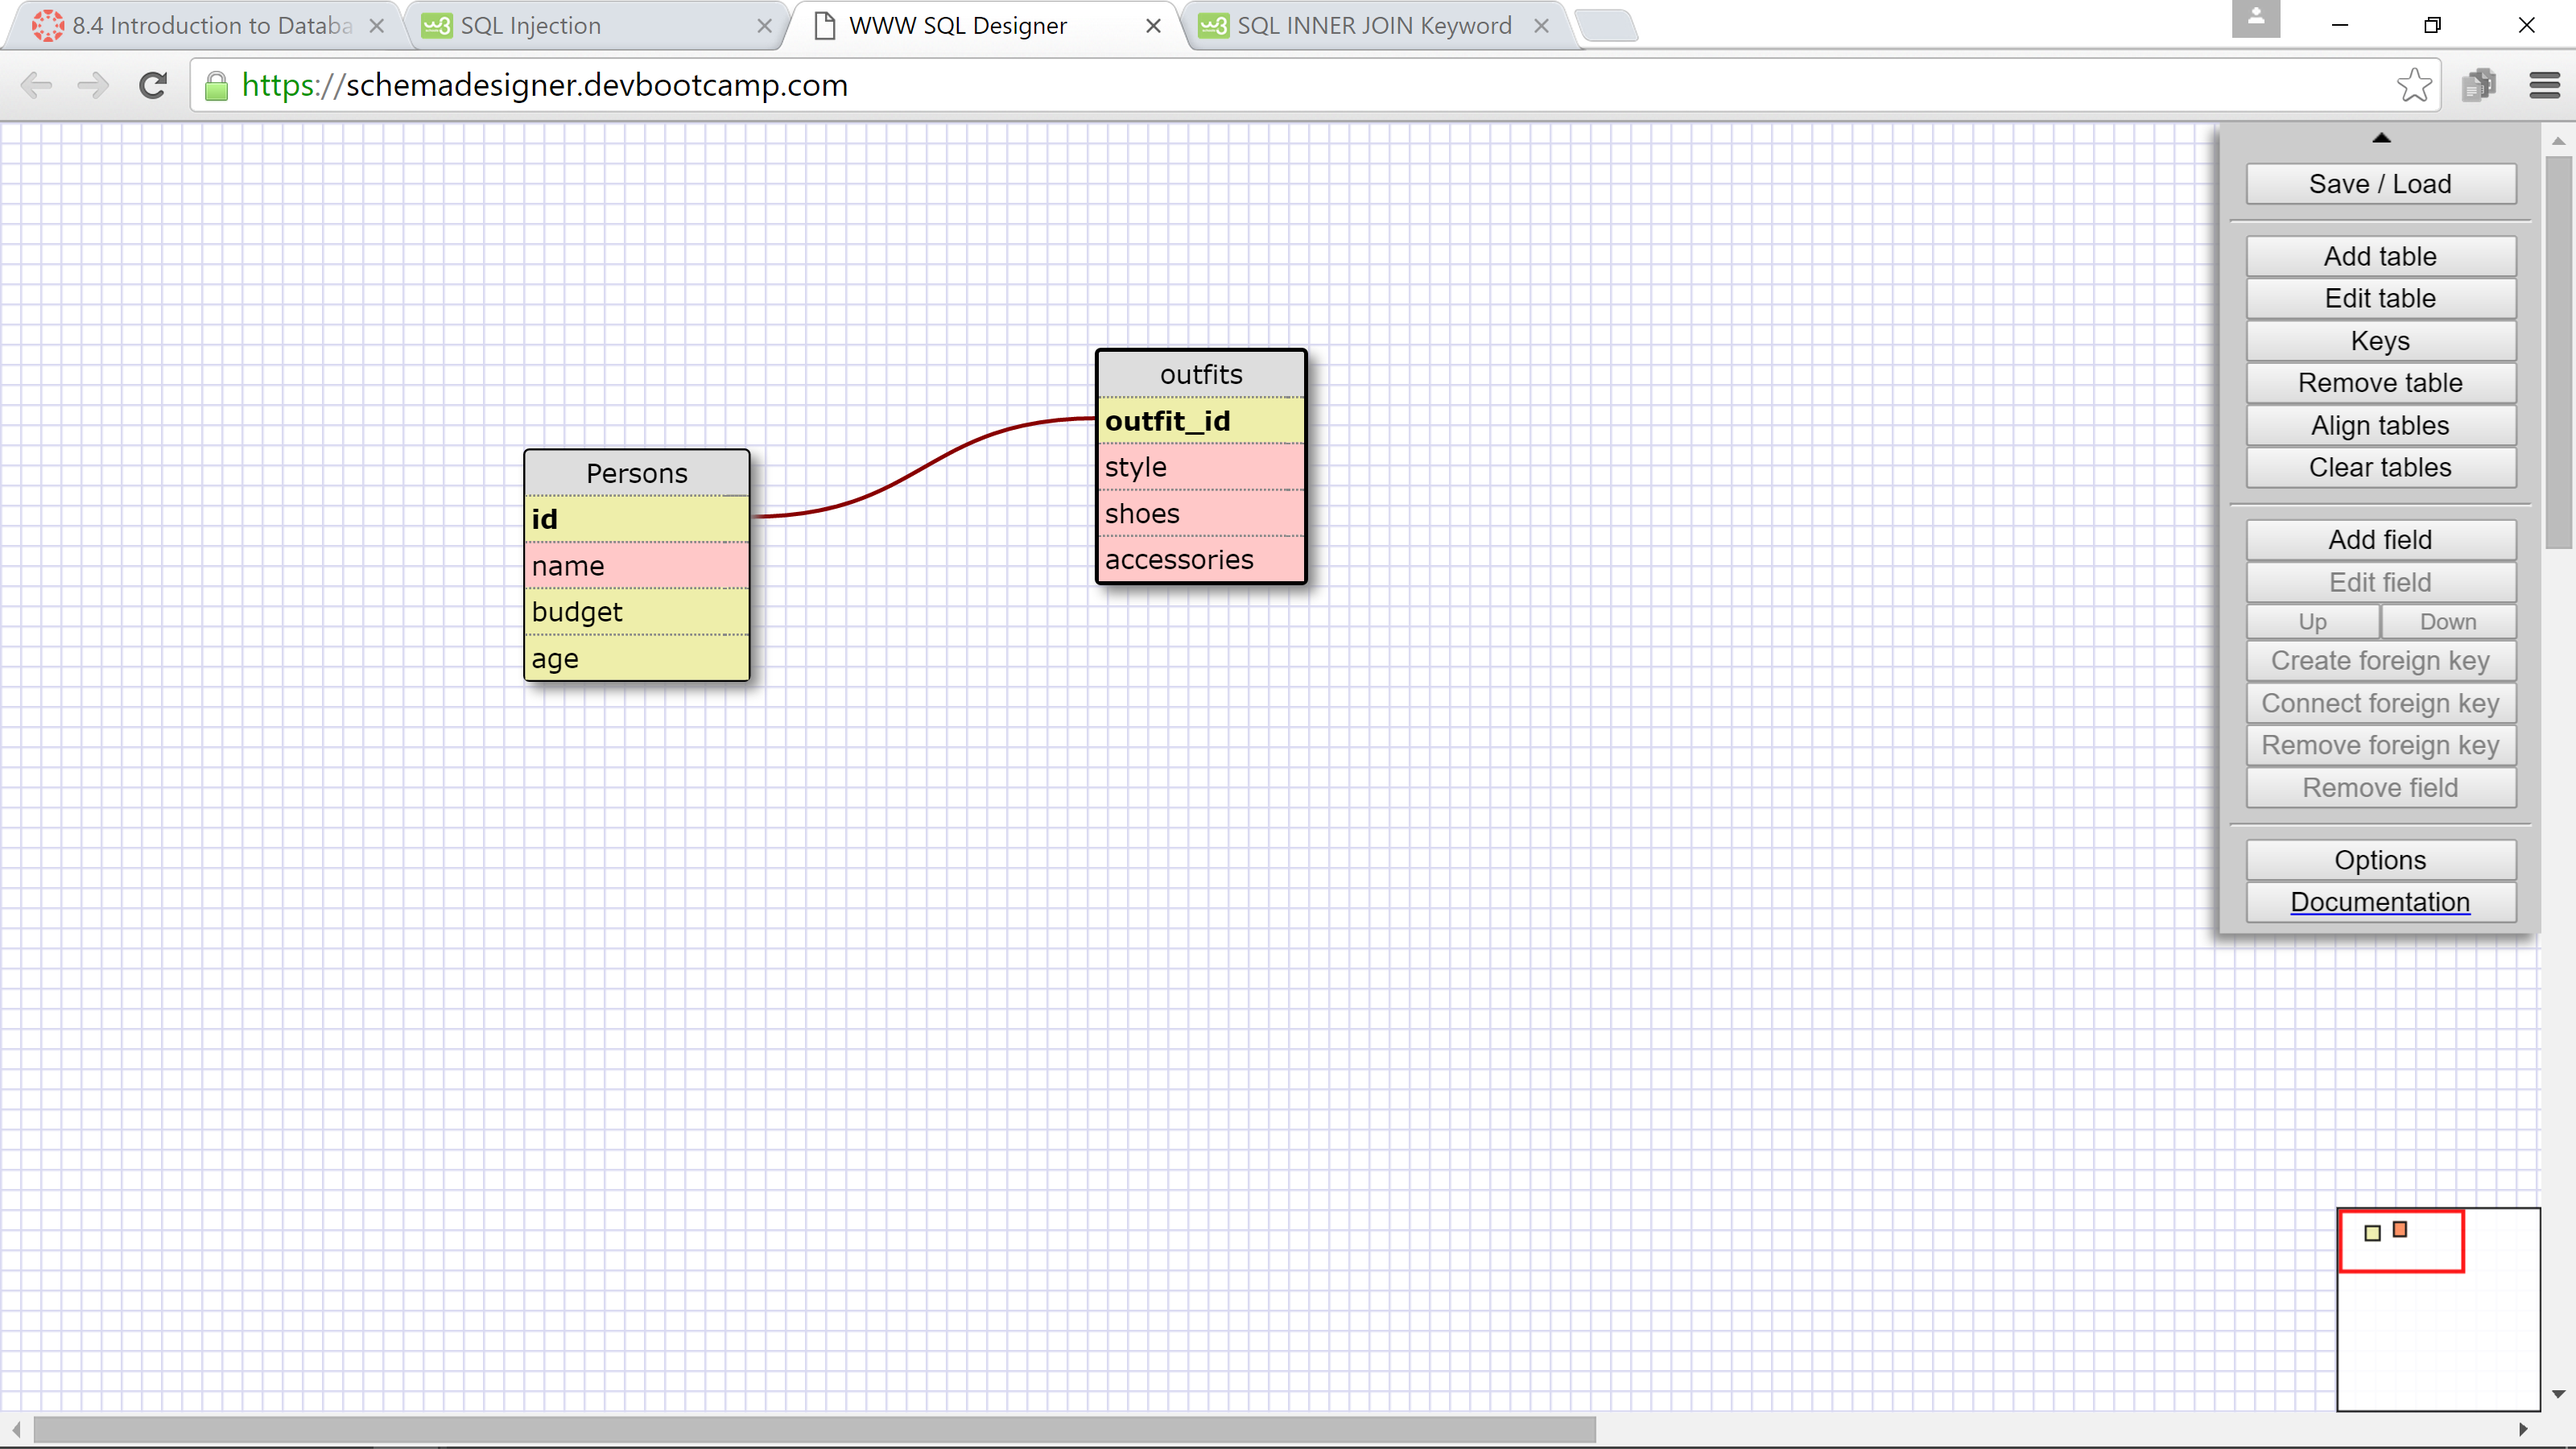
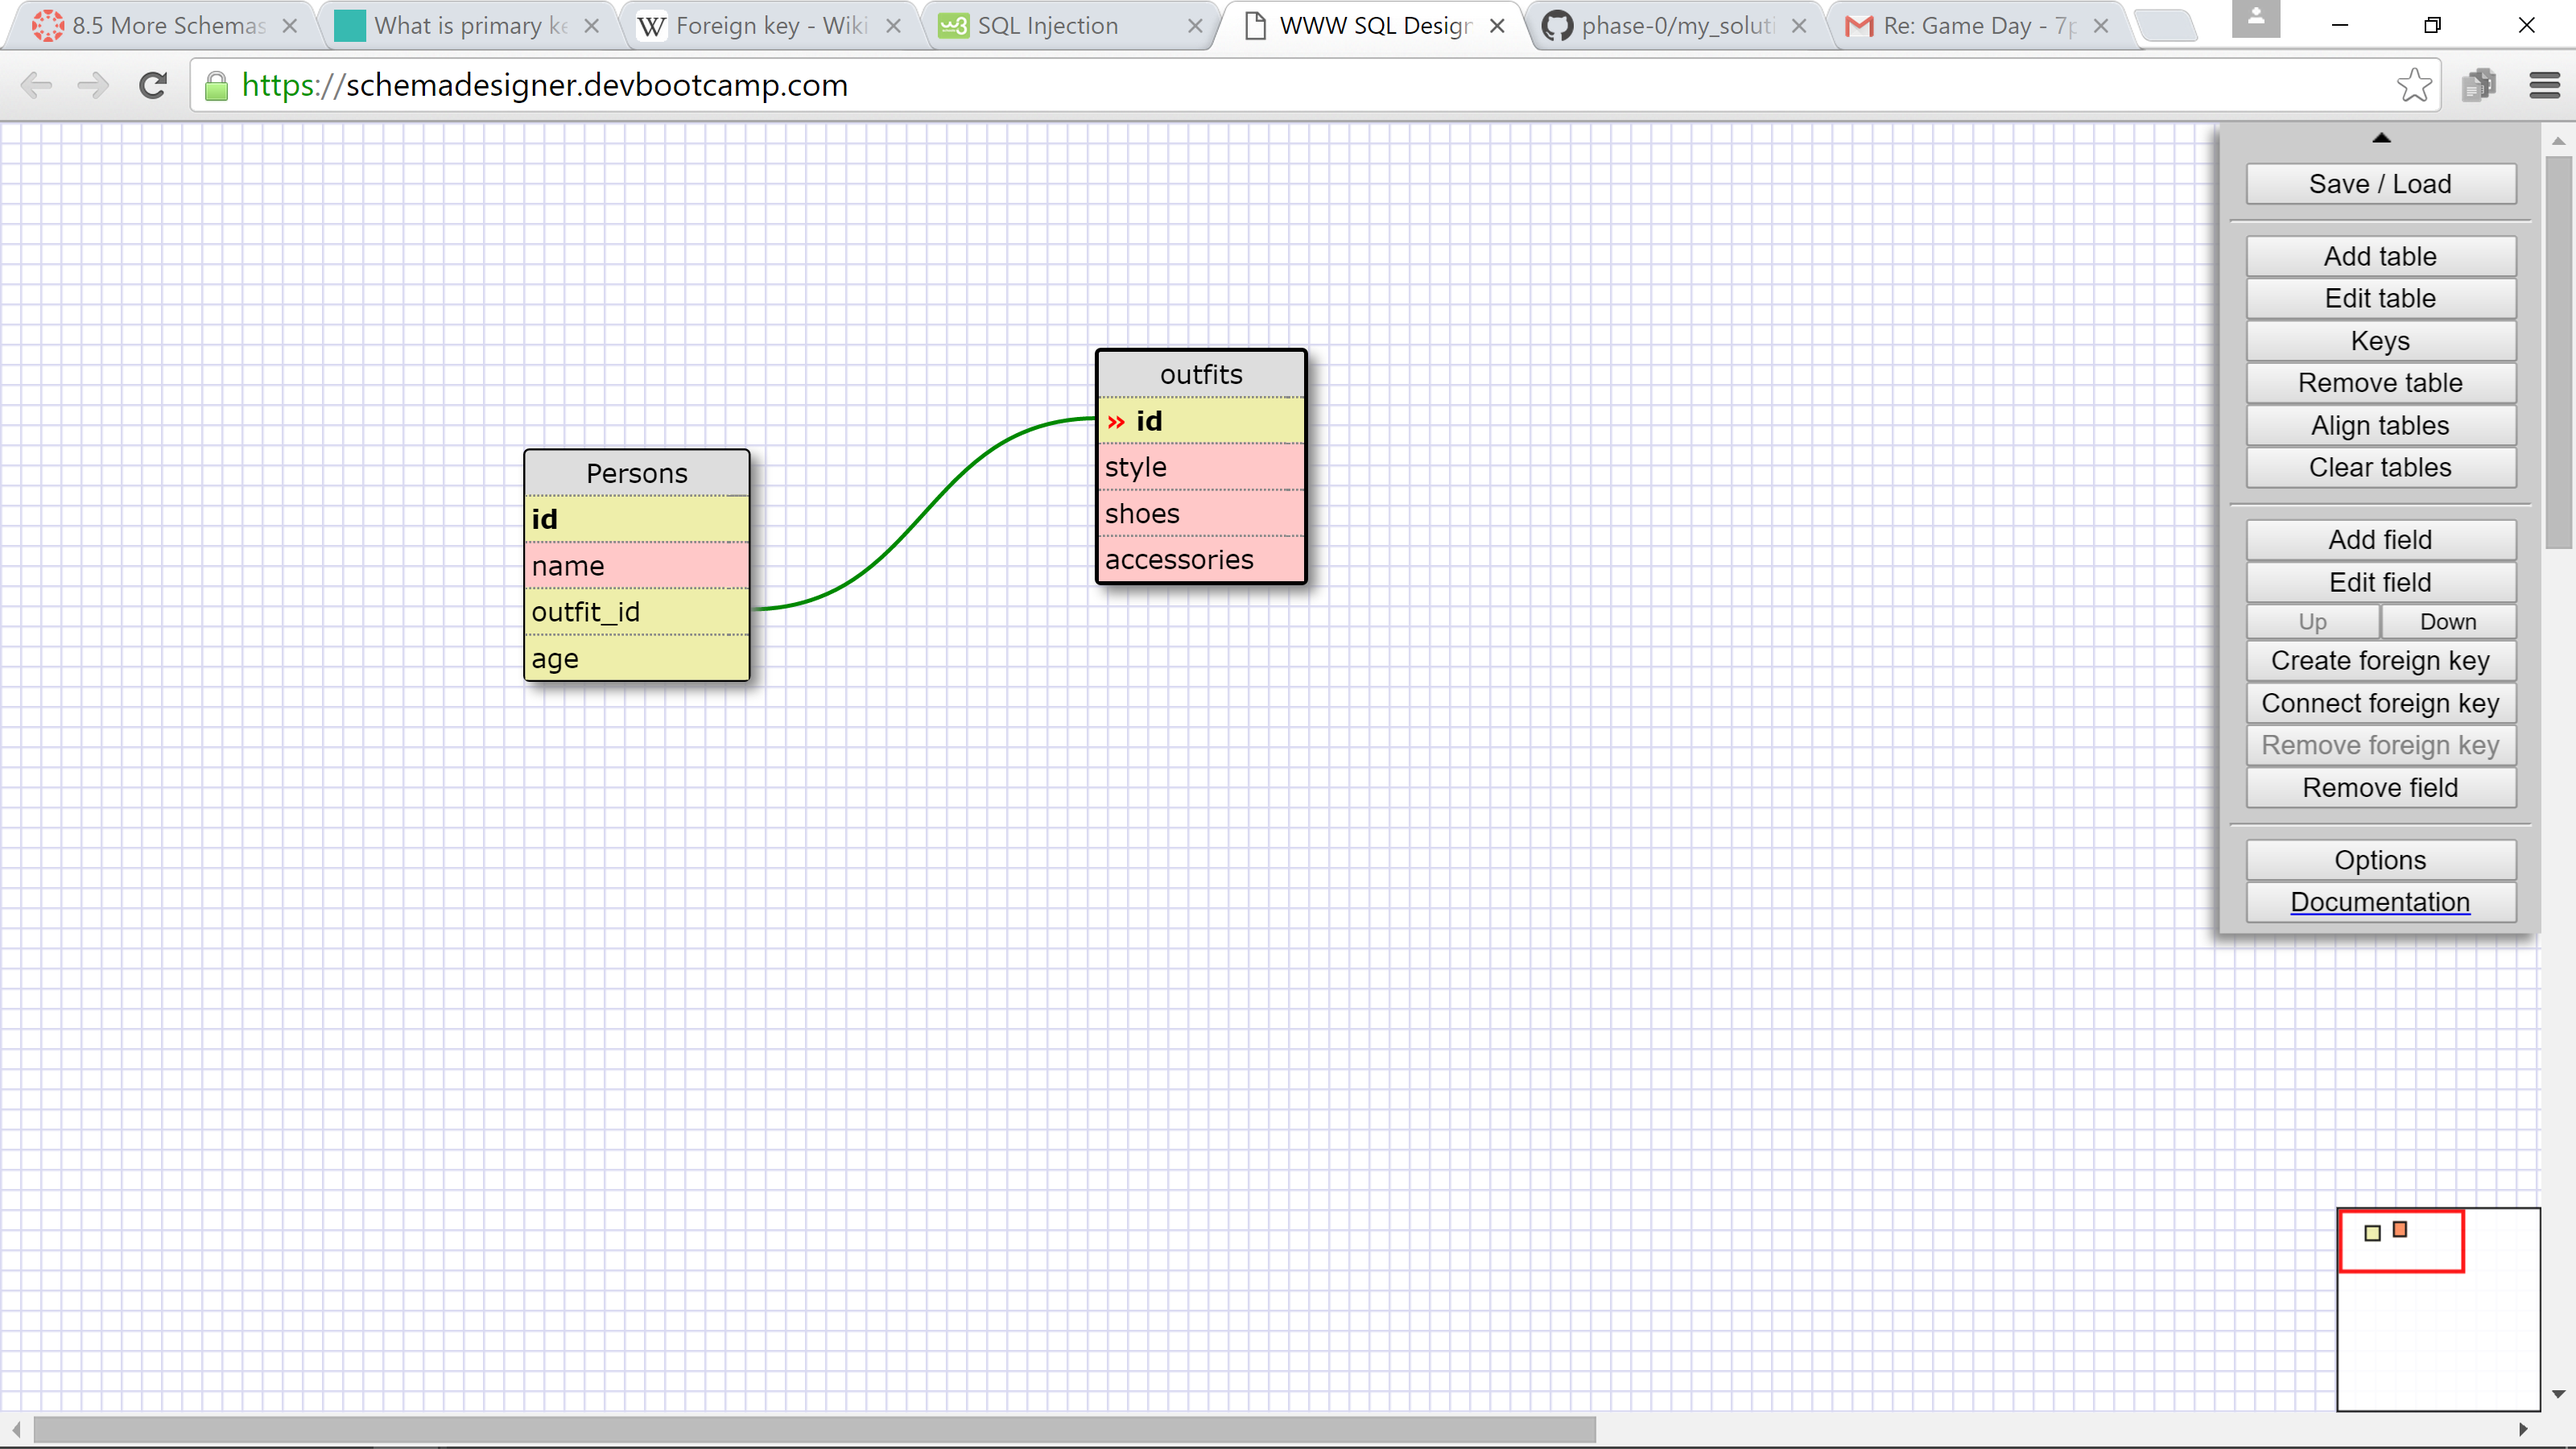
add 8.5 solution and reflection

diff --git a/week-8/more-schemas.md b/week-8/more-schemas.md
@@ -1,0 +1,33 @@
+# 8.5 More Schemas
+
+## Release 2:
+![My Schema](imgs/release2Schema.png)
+
+## Release 4:
+![My Schema](imgs/release4Schema.png)
+
+## Reflection:
+
+### What is a one-to-one database?
+	
+	A one-to-one database is where two things have a single relationship with each other and are basically a pair. 
+
+
+### When would you use a one-to-one database? (Think generally, not in terms of the example you created).
+
+	When a thing can belong to only one item and that item can belong to only one thing. The only other option is for one of the values to be null.
+
+
+### What is a many-to-many database?
+
+	When there are two objects that each can have many values or items. 
+
+
+### When would you use a many-to-many database? (Think generally, not in terms of the example you created).
+
+	In general, I think most databases will end up being many-to-many, or at least including some many-to-many relationships within the tables. The items in each row can have many things and each of those things can belong to many items.
+
+
+### What is confusing about database schemas? What makes sense?
+
+	Everything kind of makes sense. It is just kind of difficult for me to make up theoretical database schemas when I do not need them for any real purpose. Once I have an actual database that I need to create, I think it will be much easier for me to make some schemas that make sense.
